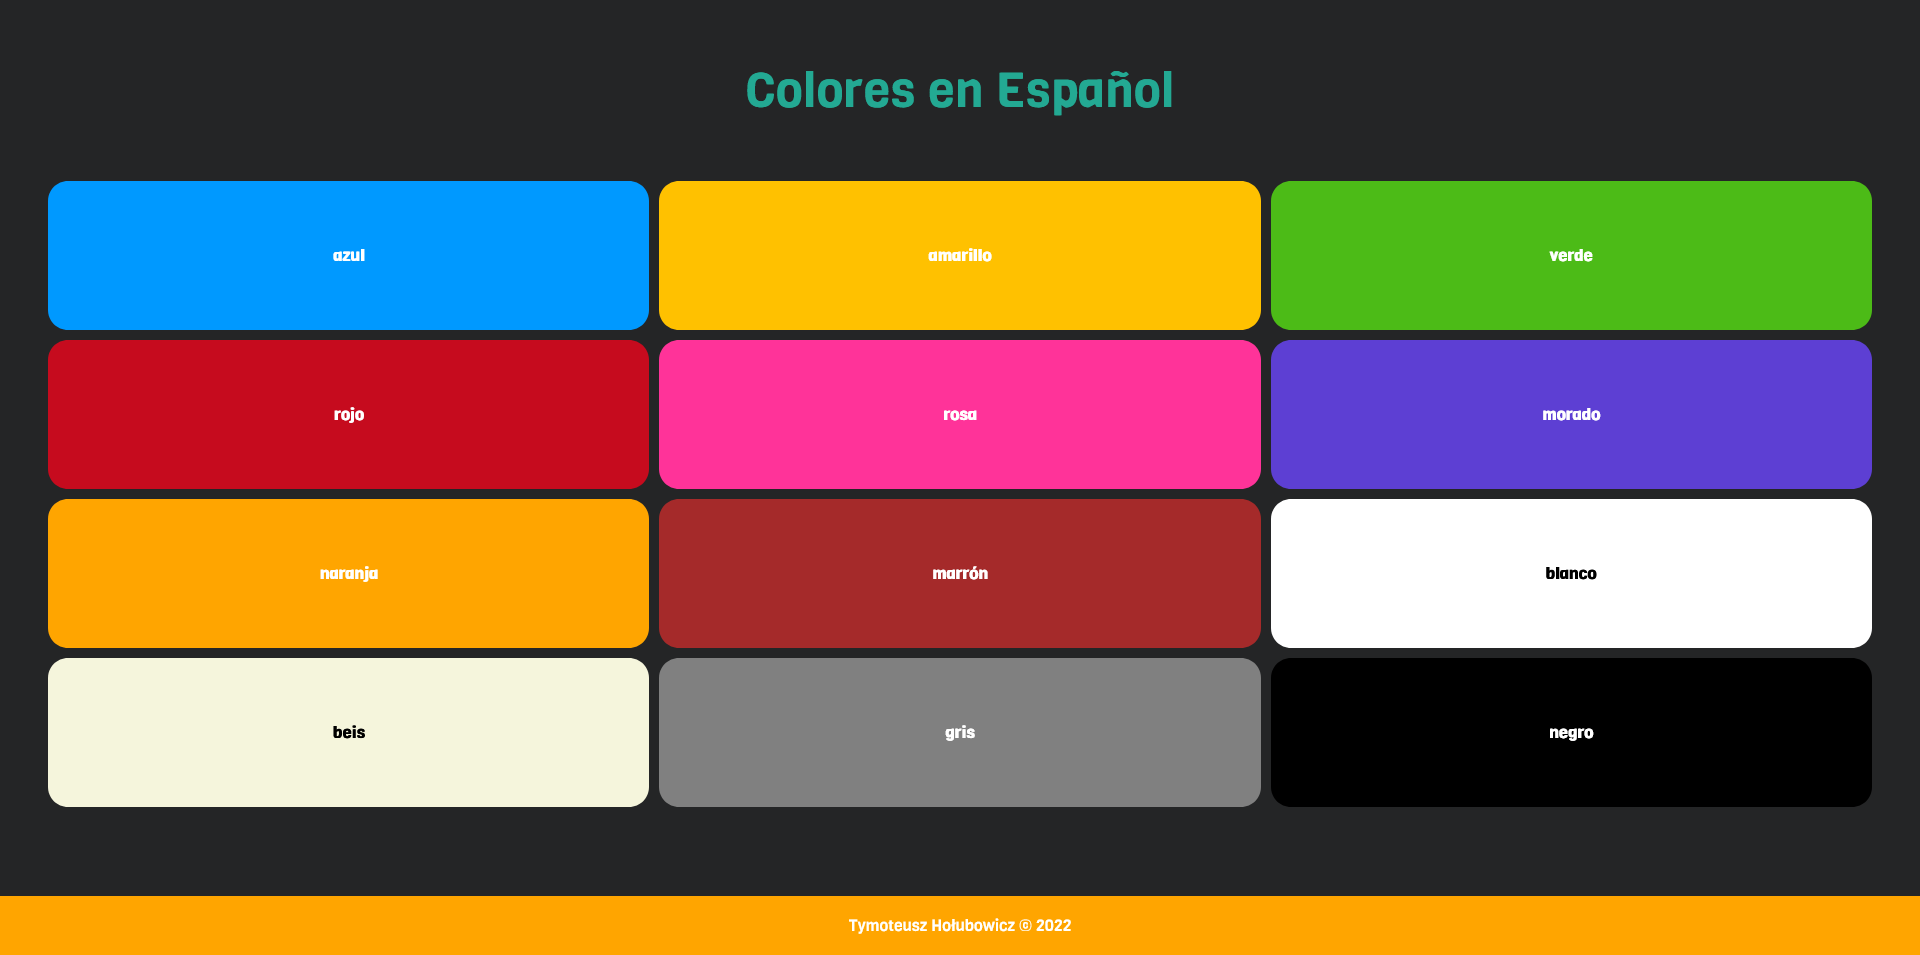
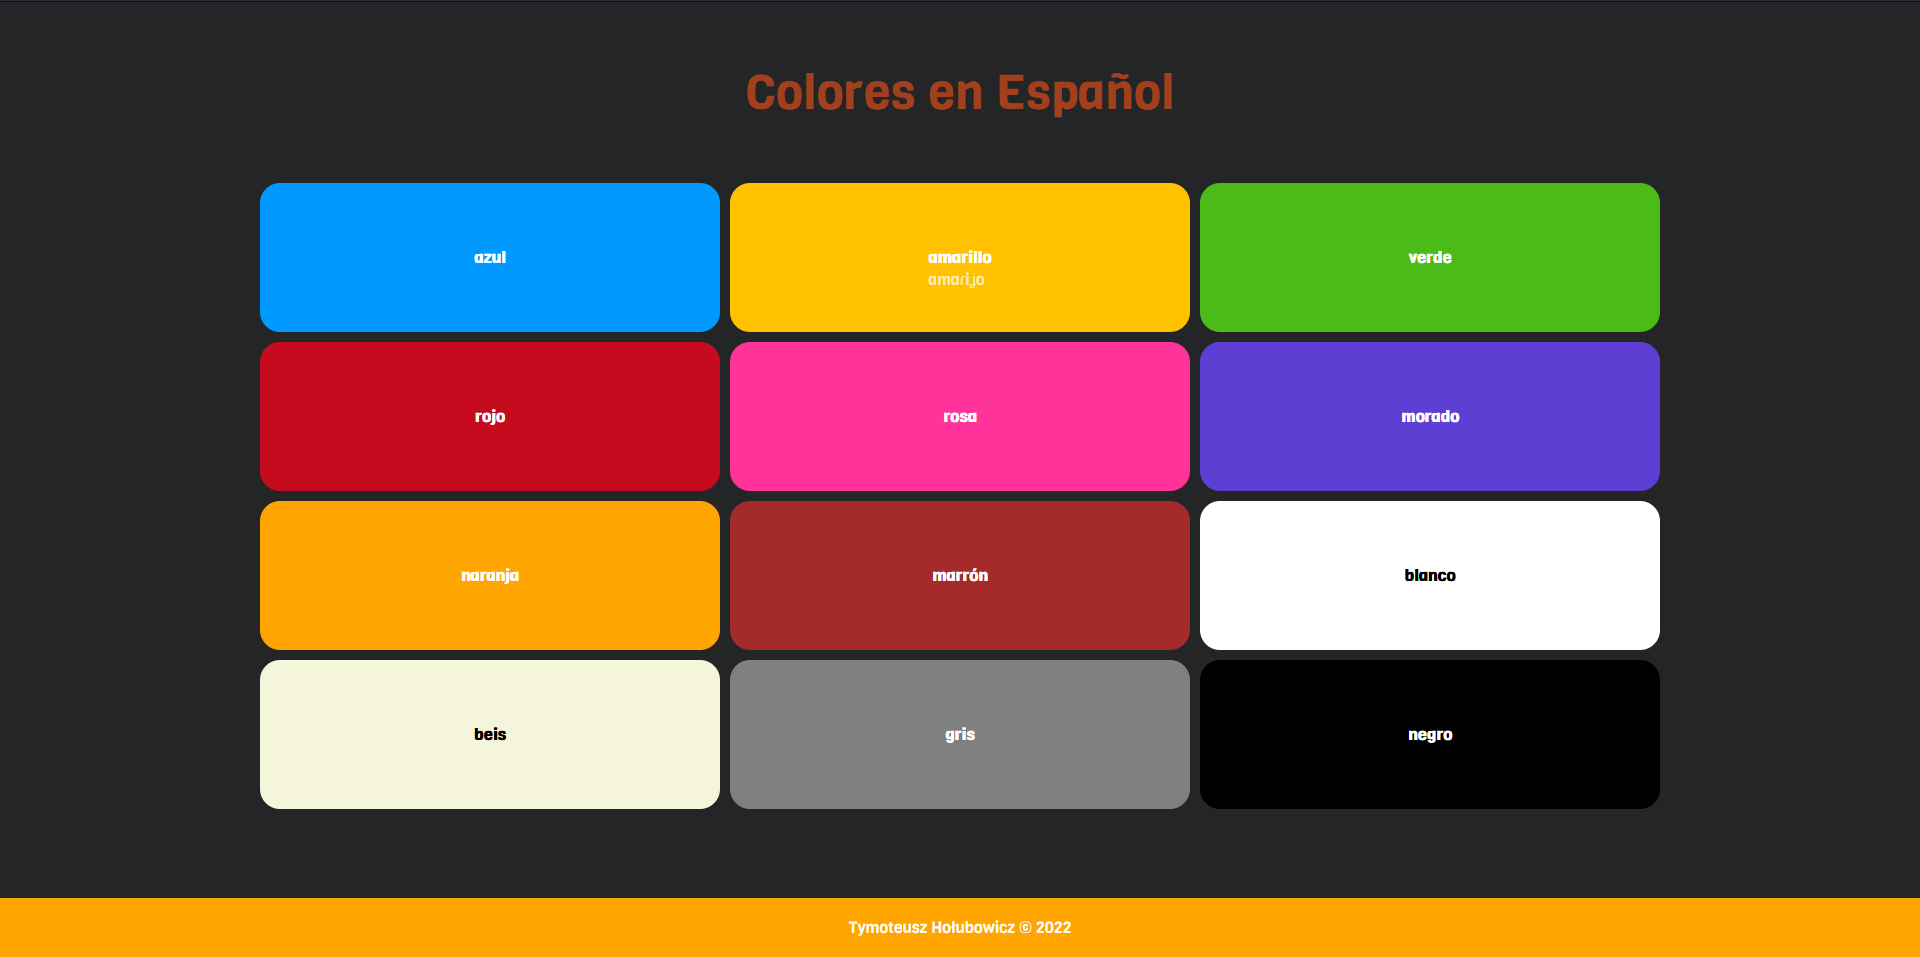
Added phonetic pronunciation

diff --git a/app/scss/layout/_content.scss b/app/scss/layout/_content.scss
@@ -1,7 +1,5 @@
 @use '../abstracts' as a;
-
-$elementBgModifiers: 'beige', 'black', 'blue', 'brown', 'gray', 'green',
-  'orange', 'pink', 'purple', 'red', 'white', 'yellow';
+@use '../base' as b;
 
 .content {
   display: flex;
@@ -32,10 +30,35 @@ $elementBgModifiers: 'beige', 'black', 'blue', 'brown', 'gray', 'green',
     }
 
     // Creating .grid-container__element background color modifiers
-    @each $color in $elementBgModifiers {
+    @each $color in a.$gridContainerElementBgModifiers {
       &--bg-#{$color} {
         @extend .grid-container__element;
         background-color: var(--#{$color});
+
+        position: relative;
+        &::before {
+          content: map-get(
+            a.$phoneticPronunciation,
+            map-get(a.$englishToSpanish, $color)
+          );
+          // Centering ::before in the center, then putting down for 20px
+          position: absolute;
+          top: 6;
+          margin-top: a.pixelToRem(22);
+          margin-left: auto;
+          margin-right: auto;
+          // Text look
+          opacity: 0.7;
+          transition: opacity 150ms ease-in-out;
+
+          // Accessability for mobile devices
+          @include a.breakpoint(large) {
+            opacity: 0;
+          }
+        }
+        &:hover::before {
+          opacity: 0.7;
+        }
       }
     }
   }

diff --git a/app/scss/abstracts/_variables.scss b/app/scss/abstracts/_variables.scss
@@ -1,0 +1,32 @@
+$gridContainerElementBgModifiers: 'beige', 'black', 'blue', 'brown', 'gray',
+  'green', 'orange', 'pink', 'purple', 'red', 'white', 'yellow';
+
+$englishToSpanish: (
+  'beige': 'beis',
+  'black': 'negro',
+  'blue': 'azul',
+  'brown': 'marrón',
+  'gray': 'gris',
+  'green': 'verde',
+  'orange': 'naranja',
+  'pink': 'rosa',
+  'purple': 'morado',
+  'red': 'rojo',
+  'white': 'blanco',
+  'yellow': 'amarillo',
+);
+
+$phoneticPronunciation: (
+  'amarillo': 'amaɾiʝo',
+  'azul': 'aθul',
+  'beis': 'beis',
+  'blanco': 'blanko',
+  'gris': 'gɾis',
+  'marrón': 'maron',
+  'morado': 'moɾaðo',
+  'naranja': 'naɾaŋχa',
+  'negro': 'neɣɾo',
+  'rojo': 'roχo',
+  'rosa': 'rosa',
+  'verde': 'beɾðe',
+);

diff --git a/app/scss/base/_typography.scss b/app/scss/base/_typography.scss
@@ -1,5 +1,9 @@
 @use '../abstracts' as a;
 
+$fontSizeH1: clamp(a.pixelToRem(28), a.pixelToRem(18) + 4vw, a.pixelToRem(48));
+$fontSizeP: a.pixelToRem(16);
+$fontSizeB: a.pixelToRem(16);
+
 h1,
 h2,
 h3 {
@@ -10,7 +14,7 @@ h3 {
 
 h1 {
   // font-size: clamp(a.pixelToRem(28), a.pixelToRem(16) + 2vw, a.pixelToRem(40));
-  font-size: clamp(a.pixelToRem(28), a.pixelToRem(18) + 4vw, a.pixelToRem(48));
+  font-size: $fontSizeH1;
 }
 
 // h2 {
@@ -19,11 +23,11 @@ h1 {
 
 p {
   // margin-top: 0;
-  font-size: a.pixelToRem(16);
+  font-size: $fontSizeP;
 }
 
 b {
-  font-size: a.pixelToRem(16);
+  font-size: $fontSizeB;
 }
 
 // a,

diff --git a/app/scss/abstracts/_index.scss b/app/scss/abstracts/_index.scss
@@ -1,3 +1,4 @@
 @forward 'colors';
 @forward 'functions';
 @forward 'mixins';
+@forward 'variables';

diff --git a/README.md b/README.md
@@ -13,7 +13,7 @@
 ## Requirements
 
 - Node
-- Installed all packages in packages.json (`npm i` or `yarn install`)
+- Installed all packages used in packages.json (run: `npm i` or `yarn install`)
 
 <!-- LINKS -->
 
